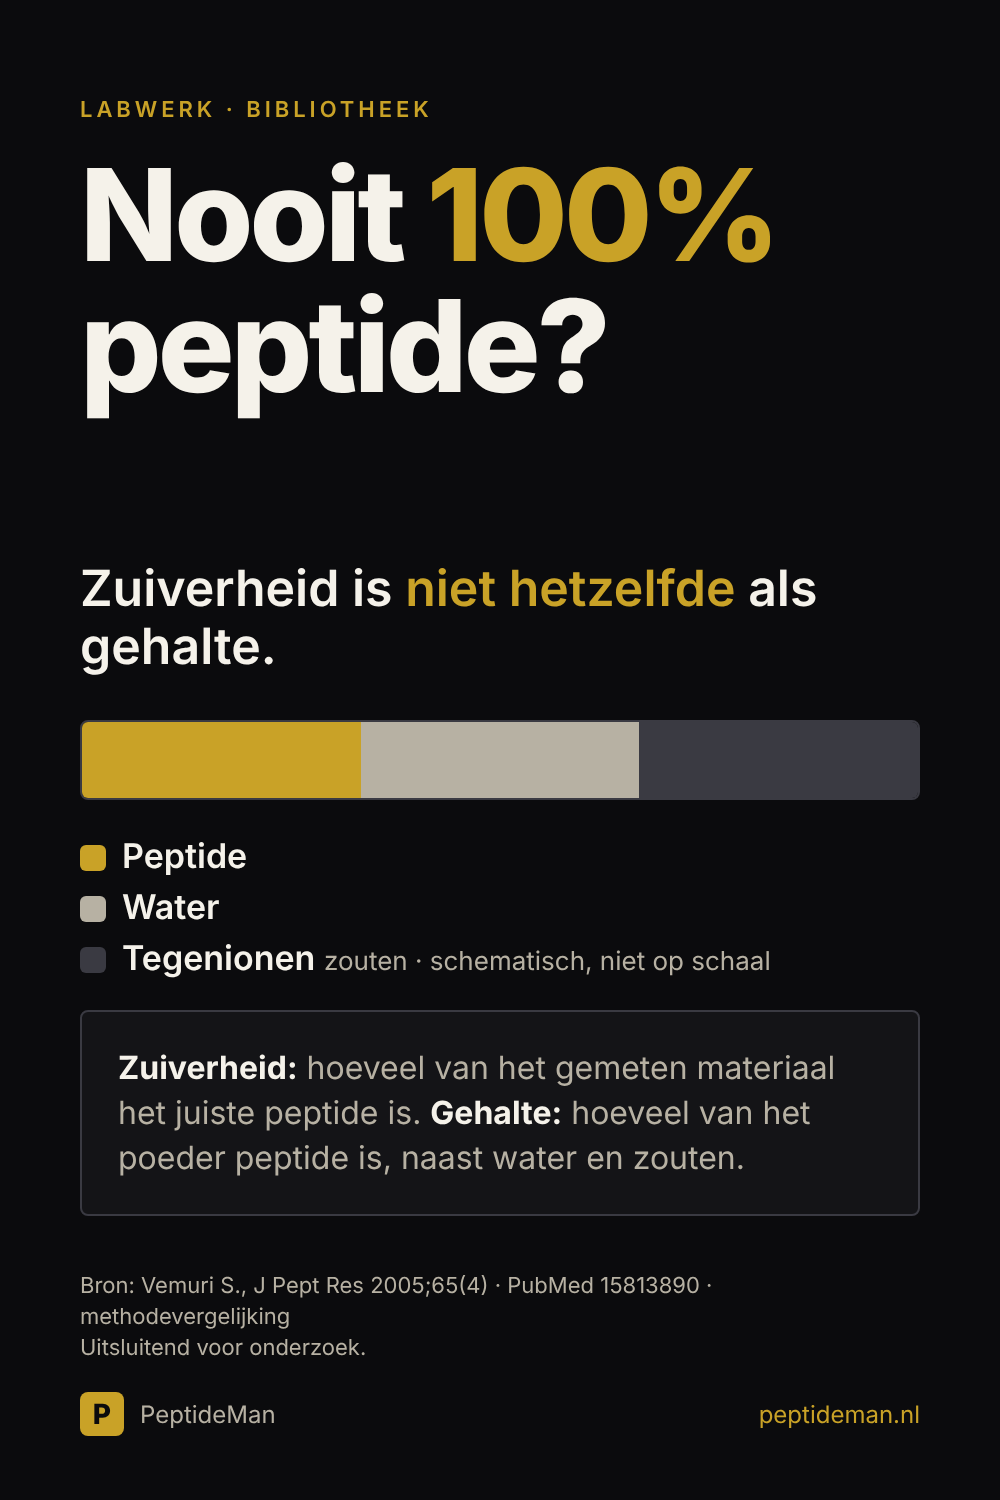
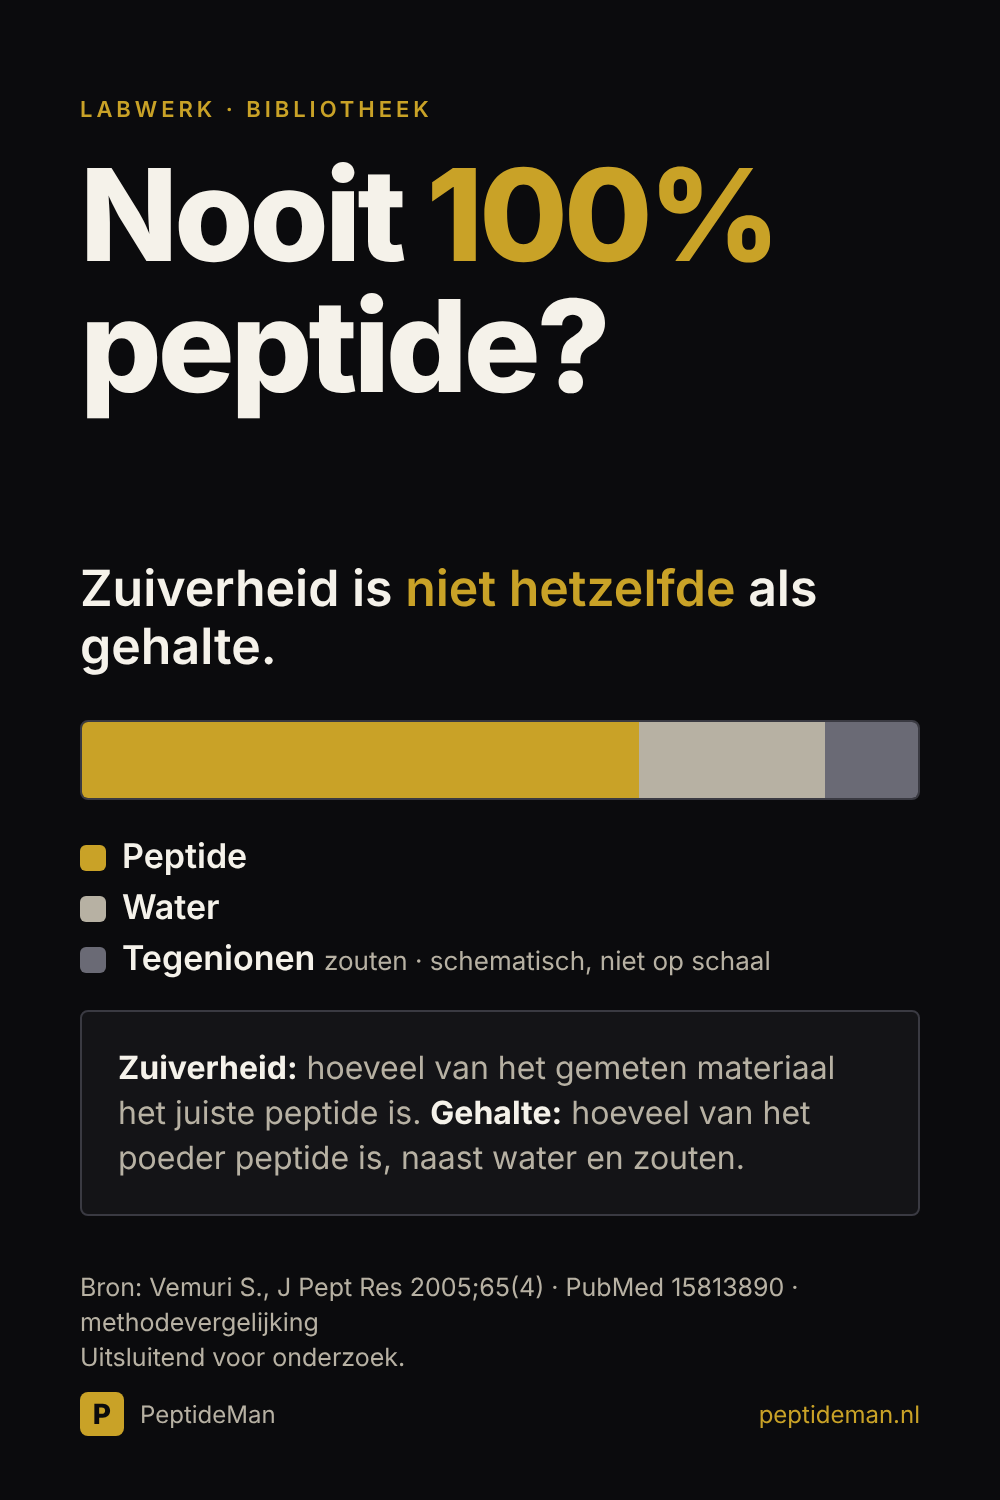
Weekplan w47: zeven posts gecontroleerd, beelden online, concepten in Metricool
Claude-Session: https://claude.ai/code/session_01X3HvVKaHCTRivaEnsPDrHS

Changed region(s): [[0.341, 0.46, 0.93, 0.552], [0.062, 0.828, 0.775, 0.92], [0.062, 0.6133, 0.124, 0.644]]

diff --git a/posts/media/2026-11-19-labwerk-peptidegehalte.html b/posts/media/2026-11-19-labwerk-peptidegehalte.html
@@ -11,15 +11,15 @@ h1 span{color:var(--gold)}
 .lead{position:absolute;top:560px;left:80px;right:80px;font-size:50px;line-height:1.15;color:var(--light);font-weight:600}
 .lead span{color:var(--gold)}
 .bar{position:absolute;top:720px;left:80px;right:80px;height:80px;display:flex;border-radius:8px;overflow:hidden;border:2px solid var(--border)}
-.bar div:nth-child(1){flex:1;background:var(--gold)}
-.bar div:nth-child(2){flex:1;background:var(--text)}
-.bar div:nth-child(3){flex:1;background:var(--border)}
+.bar div:nth-child(1){flex:6;background:var(--gold)}
+.bar div:nth-child(2){flex:2;background:var(--text)}
+.bar div:nth-child(3){flex:1;background:#6a6a75}
 .leg{position:absolute;top:830px;left:80px;right:80px;font-size:34px;line-height:1.5;color:var(--light);font-weight:600}
 .leg i{display:inline-block;width:26px;height:26px;border-radius:6px;margin-right:16px;vertical-align:-3px}
 .leg small{font-size:26px;color:var(--text);font-weight:400}
 .big{position:absolute;top:1010px;left:80px;right:80px;background:var(--surface);border:2px solid var(--border);border-radius:8px;padding:34px 36px;font-size:32px;line-height:1.4}
 .big b{color:var(--light)}
-.src{position:absolute;left:80px;right:80px;top:1270px;font-size:22px;line-height:1.4}
+.src{position:absolute;left:80px;right:80px;top:1270px;font-size:25px;line-height:1.4}
 .foot{position:absolute;left:80px;right:80px;bottom:64px;display:flex;align-items:center;gap:16px;font-size:24px}
 .logo{width:44px;height:44px;border-radius:8px;background:var(--gold);color:var(--bg);font-weight:800;font-size:28px;display:flex;align-items:center;justify-content:center}
 .foot .url{margin-left:auto;color:var(--gold)}
@@ -31,7 +31,7 @@ h1 span{color:var(--gold)}
 <div class="leg">
 <i style="background:var(--gold)"></i>Peptide<br>
 <i style="background:var(--text)"></i>Water<br>
-<i style="background:var(--border)"></i>Tegenionen <small>zouten · schematisch, niet op schaal</small>
+<i style="background:#6a6a75"></i>Tegenionen <small>zouten · schematisch, niet op schaal</small>
 </div>
 <div class="big"><b>Zuiverheid:</b> hoeveel van het gemeten materiaal het juiste peptide is. <b>Gehalte:</b> hoeveel van het poeder peptide is, naast water en zouten.</div>
 <div class="src">Bron: Vemuri S., J Pept Res 2005;65(4) · PubMed 15813890 · methodevergelijking<br>Uitsluitend voor onderzoek.</div>

diff --git a/posts/media/2026-11-22-weetje-aspartaam-dipeptide.html b/posts/media/2026-11-22-weetje-aspartaam-dipeptide.html
@@ -7,18 +7,17 @@ html,body{width:1080px;height:1920px;background:var(--bg)}
 body{font-family:system-ui,-apple-system,"Segoe UI",Roboto,Helvetica,Arial,sans-serif;color:var(--text);position:relative;overflow:hidden}
 .tag{position:absolute;top:130px;left:90px;font-size:34px;letter-spacing:.18em;text-transform:uppercase;color:var(--gold);font-weight:600}
 .pct{position:absolute;top:200px;left:80px;right:80px;font-size:400px;line-height:1;color:var(--gold);font-weight:800;letter-spacing:-.05em}
-h1{position:absolute;top:640px;left:90px;right:90px;font-size:120px;line-height:1.08;color:var(--light);font-weight:800;letter-spacing:-.03em;white-space:nowrap}
+h1{position:absolute;top:330px;left:90px;right:90px;font-size:120px;line-height:1.08;color:var(--light);font-weight:800;letter-spacing:-.03em;white-space:nowrap}
 h1 span{color:var(--gold)}
-.big{position:absolute;top:1190px;left:90px;right:90px;background:var(--surface);border:2px solid var(--border);border-radius:8px;padding:48px 52px;font-size:46px;line-height:1.35}
+.big{position:absolute;top:880px;left:90px;right:90px;background:var(--surface);border:2px solid var(--border);border-radius:8px;padding:48px 52px;font-size:46px;line-height:1.35}
 .big b{color:var(--light)}
-.src{position:absolute;left:90px;right:90px;top:1500px;font-size:28px;line-height:1.4}
+.src{position:absolute;left:90px;right:90px;top:1190px;font-size:30px;line-height:1.4}
 .foot{position:absolute;left:90px;right:90px;bottom:110px;display:flex;align-items:center;gap:20px;font-size:34px}
 .logo{width:64px;height:64px;border-radius:8px;background:var(--gold);color:var(--bg);font-weight:800;font-size:40px;display:flex;align-items:center;justify-content:center}
 .foot .url{margin-left:auto;color:var(--gold)}
-.foot{bottom:190px!important}
+.foot{bottom:260px!important}
 </style></head><body>
 <div class="tag">Weetje · Bibliotheek</div>
-<div class="pct">2</div>
 <h1>Dit zoetmiddel<br>is eigenlijk<br>een <span>peptide</span></h1>
 <div class="big">Aspartaam bestaat uit <b>twee aminozuren</b> aan elkaar: een <b>dipeptide</b>.</div>
 <div class="src">Bron: MacDonald e.a., J Med Chem 1980 · PubMed 7381839<br>Chemisch onderzoek (synthese van analogen).<br>Uitsluitend voor onderzoek.</div>

diff --git a/posts/media/2026-11-17-weetje-peptidebinding.html b/posts/media/2026-11-17-weetje-peptidebinding.html
@@ -16,7 +16,7 @@ h1 span{color:var(--gold)}
 .cap span{color:var(--gold)}
 .big{position:absolute;top:1010px;left:80px;right:80px;background:var(--surface);border:2px solid var(--border);border-radius:8px;padding:34px 36px;font-size:32px;line-height:1.4}
 .big b{color:var(--light)}
-.src{position:absolute;left:80px;right:80px;top:1270px;font-size:22px;line-height:1.4}
+.src{position:absolute;left:80px;right:80px;top:1270px;font-size:25px;line-height:1.4}
 .foot{position:absolute;left:80px;right:80px;bottom:64px;display:flex;align-items:center;gap:16px;font-size:24px}
 .logo{width:44px;height:44px;border-radius:8px;background:var(--gold);color:var(--bg);font-weight:800;font-size:28px;display:flex;align-items:center;justify-content:center}
 .foot .url{margin-left:auto;color:var(--gold)}
@@ -25,7 +25,7 @@ h1 span{color:var(--gold)}
 <h1>Hoe zitten aminozuren aan elkaar <span>vast?</span></h1>
 <div class="row"><div class="aa">aminozuur</div><div class="bond">CO–NH</div><div class="aa">aminozuur</div></div>
 <div class="cap">Dit heet een peptidebinding, <span>met water als bijproduct.</span></div>
-<div class="big">Twee aminozuren maken een verbinding. Daarbij komt een molecuul <b>water</b> vrij.</div>
-<div class="src">Bron: Forbes Kaprive J. &amp; Merheb E., StatPearls 2026 · PubMed 32965931 · naslagwerk<br>Uitsluitend voor onderzoek.</div>
+<div class="big">De verbinding heet <b>CO–NH</b>. Daarbij komt een molecuul <b>water</b> vrij.</div>
+<div class="src">Bron: StatPearls 2026 · PubMed 32965931 · naslagwerk<br>Uitsluitend voor onderzoek.</div>
 <div class="foot"><div class="logo">P</div>PeptideMan<span class="url">peptideman.nl</span></div>
 </body></html>

diff --git a/posts/media/2026-11-21-labwerk-vriesdrogen.html b/posts/media/2026-11-21-labwerk-vriesdrogen.html
@@ -10,15 +10,15 @@ h1{position:absolute;top:260px;left:90px;right:90px;font-size:124px;line-height:
 h1 span{color:var(--gold)}
 .big{position:absolute;top:1010px;left:90px;right:90px;background:var(--surface);border:2px solid var(--border);border-radius:8px;padding:48px 52px;font-size:50px;line-height:1.35}
 .big b{color:var(--light)}
-.src{position:absolute;left:90px;right:90px;top:1400px;font-size:28px;line-height:1.4}
+.src{position:absolute;left:90px;right:90px;top:1440px;font-size:30px;line-height:1.4}
 .foot{position:absolute;left:90px;right:90px;bottom:110px;display:flex;align-items:center;gap:20px;font-size:34px}
 .logo{width:64px;height:64px;border-radius:8px;background:var(--gold);color:var(--bg);font-weight:800;font-size:40px;display:flex;align-items:center;justify-content:center}
 .foot .url{margin-left:auto;color:var(--gold)}
 .foot{bottom:240px!important}
 </style></head><body>
 <div class="tag">Labwerk · Bibliotheek</div>
-<h1>Waarom zit een peptide vaak als <span>wit pluisje</span> in het flesje?</h1>
-<div class="big">Vriesdrogen haalt het water weg: eerst <b>bevriezen</b>, dan <b>drogen</b>.</div>
+<h1>Dit witte pluisje is een peptide <span>zonder water</span></h1>
+<div class="big">Vriesdrogen haalt het water weg: eerst <b>bevriezen</b>, dan <b>drogen</b>. Zo blijft een peptide stabieler dan in water.</div>
 <div class="src">Bron: Izutsu, Adv Exp Med Biol 2018 (overzichtsartikel, geen studie bij mens, dier of cel) · PubMed 30288720<br>Uitsluitend voor onderzoek.</div>
 <div class="foot"><div class="logo">P</div>PeptideMan<span class="url">peptideman.nl</span></div>
 </body></html>

diff --git a/posts/media/2026-11-16-labwerk-chromatogram.html b/posts/media/2026-11-16-labwerk-chromatogram.html
@@ -27,8 +27,8 @@ h1 span{color:var(--gold)}
 <path d="M0 250 L120 250 Q150 250 160 235 Q170 215 180 235 Q190 250 220 250 L330 250 Q380 250 400 150 Q420 20 440 20 Q460 20 480 150 Q500 250 550 250 L640 250 Q665 250 675 225 Q685 205 695 225 Q705 250 730 250 L840 250" fill="none" stroke="#C9A227" stroke-width="5" stroke-linejoin="round"/>
 <line x1="440" y1="20" x2="440" y2="250" stroke="#3A3A42" stroke-width="2" stroke-dasharray="8 8"/>
 </svg></div>
-<div class="lab"><span>retentietijd →</span><span>piek = stof uit de kolom</span></div>
-<div class="cap">Elke piek: <span>een stof uit de kolom.</span></div>
+<div class="lab"><span>retentietijd →</span><span>piek = meestal één stof</span></div>
+<div class="cap">Een piek: <span>meestal één stof.</span></div>
 <div class="big"><b>Retentietijd:</b> het moment waarop de piek verschijnt. <b>Oppervlak:</b> hoe groot het signaal van die stof is.</div>
 <div class="src">Bron: Preston &amp; Phillips, Anal Bioanal Chem 2016 · PubMed 26879647<br>Methodeartikel · Uitsluitend voor onderzoek.</div>
 <div class="foot"><div class="logo">P</div>PeptideMan<span class="url">peptideman.nl</span></div>

diff --git a/posts/media/2026-11-18-mythe-peptide-hormoon.html b/posts/media/2026-11-18-mythe-peptide-hormoon.html
@@ -16,14 +16,14 @@ h1 span{color:var(--gold)}
 .big{position:absolute;top:960px;left:80px;right:80px;background:var(--surface);border:2px solid var(--border);border-radius:8px;padding:32px 36px;font-size:32px;line-height:1.35}
 .big b{color:var(--light)}
 .big p+p{margin-top:16px}
-.src{position:absolute;left:80px;right:80px;top:1280px;font-size:22px;line-height:1.4}
+.src{position:absolute;left:80px;right:80px;top:1280px;font-size:25px;line-height:1.4}
 .foot{position:absolute;left:80px;right:80px;bottom:64px;display:flex;align-items:center;gap:16px;font-size:24px}
 .logo{width:44px;height:44px;border-radius:8px;background:var(--gold);color:var(--bg);font-weight:800;font-size:28px;display:flex;align-items:center;justify-content:center}
 .foot .url{margin-left:auto;color:var(--gold)}
 </style></head><body>
 <div class="tag">Mythe vs Feit · Bibliotheek</div>
 <h1>Elk peptide<br>een hormoon?<br><span>Nee.</span></h1>
-<div class="lab">Peptiden komen ook voor in</div>
+<div class="lab">Peptiden komen voor in</div>
 <div class="grid">
 <div class="chip"><i></i>Hormonen</div>
 <div class="chip"><i></i>Toxines</div>

diff --git a/posts/media/2026-11-20-vraag-cyclisch-peptide.html b/posts/media/2026-11-20-vraag-cyclisch-peptide.html
@@ -33,7 +33,7 @@ h1 span{color:var(--gold)}
 <text x="640" y="318" text-anchor="middle" font-size="30" font-weight="700" fill="#C9A227">ring</text>
 </svg>
 <div class="cap">Een <span>ring</span> van aminozuren.</div>
-<div class="big">Bij een ring zijn <b>begin en eind</b> aan elkaar vastgemaakt.</div>
+<div class="big">Vaak zijn <b>begin en eind</b> aan elkaar vastgemaakt.</div>
 <div class="src">Bron: review, Molecules 2021 · PubMed 34206124<br>Uitsluitend voor onderzoek.</div>
 <div class="foot"><div class="logo">P</div>PeptideMan<span class="url">peptideman.nl</span></div>
 </body></html>

diff --git a/planning/2026-w47.md b/planning/2026-w47.md
@@ -6,13 +6,15 @@ Pinterest-beschrijvingen blijven onder 500 tekens. TikTok: foto met één sterke
 | Dag | Tijd | Kanaal | Pijler | Onderwerp | Hoek (titel / openingszin) | Waarom |
 |---|---|---|---|---|---|---|
 | ma 16 nov | 11:00 | Pinterest | Labwerk | Chromatogram lezen: piek, retentietijd, piekoppervlak | "Hoe lees je een HPLC-chromatogram?" | Labwerk onderscheidt PeptideMan. **Experiment** (analist 2): pin-link naar https://peptideman.nl/kwaliteit in plaats van de homepage; let op: Pinterest-statistiek geeft nog 0 rijen |
-| di 17 nov | 11:00 | Pinterest | Weetje | De peptidebinding: hoe aminozuren aan elkaar zitten | "Hoe zitten aminozuren aan elkaar vast in een peptide?" | Nieuw onderwerp, brede zoekvraag |
+| di 17 nov | 17:00 | Pinterest | Weetje | De peptidebinding: hoe aminozuren aan elkaar zitten | "Wat is een peptidebinding?" | Nieuw onderwerp, brede zoekvraag |
 | wo 18 nov | 11:00 | Pinterest | Mythe vs Feit | Zijn alle peptiden hormonen? | "Is elk peptide een hormoon?" | Basisvraag, educatief; mythe weerleggen met onderzoek naar peptidefuncties in cellen |
-| do 19 nov | 11:00 | Pinterest | Labwerk | Peptidegehalte: waarom een poeder nooit 100% peptide is (water, tegenionen) | "Waarom is een peptide nooit 100% peptide?" | Tweede Labwerk, vult "99%"-post aan met wat een zuiverheidspercentage niet zegt |
+| do 19 nov | 11:00 | Pinterest | Labwerk | Peptidegehalte: waarom een poeder nooit 100% peptide is (water, tegenionen) | "Wat is het verschil tussen peptidegehalte en zuiverheid?" | Tweede Labwerk, vult "99%"-post aan met wat een zuiverheidspercentage niet zegt |
 | vr 20 nov | 11:00 | Pinterest | Vraag van de dag | Wat is een cyclisch peptide? | "Wat is een cyclisch peptide?" | Zoekvraag, structuurfeit, geen gebruiksinfo |
 | za 21 nov | 08:00 | TikTok | Labwerk | Vriesdrogen: waarom peptidepoeder als wit pluisje in de flacon zit | Prikkelende eerste zin: "Dit witte pluisje is een peptide zonder water" | Derde Labwerk; foto met één uitspraak (les: 41.946 weergaven); ochtend zoals de uitschieter van 14 okt |
-| zo 22 nov | 08:00 | TikTok | Weetje | Aspartaam is een dipeptide (twee aminozuren, chemische structuur) | Prikkelende eerste zin: "Dit zoetmiddel is een peptide van 2 aminozuren" | Nieuwe post; structuurfeit, geen gezondheidsclaim |
+| zo 22 nov | 14:30 | TikTok | Weetje | Aspartaam is een dipeptide (twee aminozuren, chemische structuur) | Prikkelende eerste zin: "Dit zoetmiddel is eigenlijk een peptide" | Nieuwe post; structuurfeit, geen gezondheidsclaim |
 
+Let op: op zo 22 nov staat al een TikTok-video om 10:00 (id 420360528); de aspartaam-post gaat daarom om 14:30 (4-uursregel).
+Let op: op di 17 nov staat al een epithalon-concept om 11:00 (vorig plan); de peptidebinding-pin gaat daarom om 17:00.
 Pijlers: Labwerk 3x, Weetje 2x, Mythe vs Feit 1x, Vraag van de dag 1x. Video ontbreekt deze week: video's worden niet autonoom geproduceerd.
 TikTok-tijd: 08:00 volgt de uitschieter (weergaven en reacties meten, deze keer ook shares).
 

diff --git a/posts/2026-11-19-labwerk-peptidegehalte.md b/posts/2026-11-19-labwerk-peptidegehalte.md
@@ -1,13 +1,13 @@
 kanaal: Pinterest
 pijler: Labwerk
-pin-titel: Wat is peptidegehalte en wat is het verschil met zuiverheid?
+pin-titel: Wat is het verschil tussen peptidegehalte en zuiverheid?
 pin-link: https://peptideman.nl
 beeldtekst: Nooit 100% peptide? Zuiverheid is iets anders dan gehalte. Gehalte zegt hoeveel van het poeder peptide is, naast water en zouten (tegenionen).
 
 caption: |
-  Peptidegehalte zegt hoeveel van het poeder echt peptide is. Zuiverheid is iets anders. Naast het peptide zitten er ook water en zouten (tegenionen) in.
+  Peptidegehalte zegt hoeveel van het poeder echt peptide is. Zuiverheid is iets anders. Naast het peptide zitten er meestal ook water en zouten (tegenionen) in.
 
-  Soort bron: methodevergelijking (2005), geen studie bij mensen of dieren.
+  Soort bron: methodevergelijking (2005) over hoe je peptidegehalte meet, geen studie bij mensen of dieren.
 
   Uitsluitend voor onderzoek.
 
@@ -18,5 +18,6 @@ bron: https://pubmed.ncbi.nlm.nih.gov/15813890/ (Vemuri S. J Pept Res 2005;65(4)
 soort-bron: methodevergelijking (analytische chemie, gevriesdroogd peptidepreparaat), geen studie bij mens, dier of cel. De abstract vergelijkt vier methoden voor peptidegehalte (elementanalyse CHN, aminozuuranalyse, HPLC, Kjeldahl) en meldt dat de precisie afhangt van peptide, methode en laboratorium. Water en tegenionen staan niet in de abstract; dat is algemene achtergrond.
 
 beeld: posts/media/2026-11-19-labwerk-peptidegehalte.png
-beeld-url: open
-claimcheck: open
+beeld-url: https://peptideman-media-hspj.netlify.app/social/2026-11-19-labwerk-peptidegehalte.png
+claimcheck: GOED
+ingepland: 2026-11-19 11:00 (concept)

diff --git a/posts/2026-11-21-labwerk-vriesdrogen.md b/posts/2026-11-21-labwerk-vriesdrogen.md
@@ -1,11 +1,11 @@
 kanaal: TikTok
 pijler: Labwerk
-titel: Waarom een peptide vaak als wit pluisje in het flesje zit
-eerste-beeld: Waarom zit een peptide vaak als wit pluisje in het flesje?
-beeldtekst: Waarom zit een peptide vaak als wit pluisje in het flesje? Vriesdrogen haalt het water weg: eerst bevriezen, dan drogen.
+titel: Waarom peptidepoeder een wit pluisje is
+eerste-beeld: Dit witte pluisje is een peptide zonder water
+beeldtekst: Dit witte pluisje is een peptide zonder water. Vriesdrogen haalt het water weg: eerst bevriezen, dan drogen. Zo blijft een peptide stabieler dan in water.
 
 caption: |
-  Waarom zit peptidepoeder vaak als wit pluisje in het flesje? Vriesdrogen houdt peptiden stabieler. Link in bio. Uitsluitend voor onderzoek.
+  Dit witte pluisje is een peptide zonder water. Vriesdrogen houdt peptiden stabieler. Link in bio. Uitsluitend voor onderzoek.
 
 
 hashtags: #labwerk #vriesdrogen #peptiden #peptideonderzoek
@@ -14,5 +14,6 @@ bron: https://pubmed.ncbi.nlm.nih.gov/30288720/ (Izutsu KI. Adv Exp Med Biol 201
 soort-bron: overzichtsartikel (farmaceutische technologie, formulering van eiwitten en peptiden), geen studie bij mens, dier of cel. De abstract beschrijft dat vriesdrogen (bevriezen, primair en secundair drogen) de opslagstabiliteit verbetert van eiwitten, peptiden en andere stoffen die in waterige oplossing maar matig stabiel zijn.
 
 beeld: posts/media/2026-11-21-labwerk-vriesdrogen.png
-beeld-url: open
-claimcheck: open
+beeld-url: https://peptideman-media-hspj.netlify.app/social/2026-11-21-labwerk-vriesdrogen.png
+claimcheck: GOED
+ingepland: 2026-11-21 08:00 (concept)

diff --git a/posts/2026-11-22-weetje-aspartaam-dipeptide.md b/posts/2026-11-22-weetje-aspartaam-dipeptide.md
@@ -2,10 +2,10 @@ kanaal: TikTok
 pijler: Weetje
 titel: Een zoetmiddel dat eigenlijk een peptide is
 eerste-beeld: Dit zoetmiddel is eigenlijk een peptide
-beeldtekst: 2. Dit zoetmiddel is eigenlijk een peptide. Aspartaam bestaat uit twee aminozuren aan elkaar: een dipeptide.
+beeldtekst: Dit zoetmiddel is eigenlijk een peptide. Aspartaam bestaat uit twee aminozuren aan elkaar: een dipeptide.
 
 caption: |
-  Aspartaam bestaat uit twee aminozuren aan elkaar. Dat is een dipeptide. Bron: PubMed 7381839. Uitsluitend voor onderzoek.
+  Aspartaam: twee aminozuren aan elkaar (aspartaat en fenylalanine), met een methylgroep. Een dipeptide. PubMed 7381839. Uitsluitend voor onderzoek.
 
 
 hashtags: #zoetmiddel #scheikunde #wistjedat #peptideonderzoek
@@ -14,5 +14,6 @@ bron: https://pubmed.ncbi.nlm.nih.gov/7381839/ ("Peptide sweeteners. 3. Effect o
 soort-bron: chemisch onderzoek (synthese van analogen, structuur-activiteit), geen dier- of celstudie. Alleen het structuurfeit uit de abstract is gebruikt: de abstract noemt aspartaam "the dipeptide sweetener L-aspartyl-L-phenylalanine methyl ester", dus twee aminozuren (aspartaat en fenylalanine) met een methylester. Geen smaak-, veiligheids-, gezondheids- of consumptieclaims overgenomen.
 
 beeld: posts/media/2026-11-22-weetje-aspartaam-dipeptide.png
-beeld-url: open
-claimcheck: open
+beeld-url: https://peptideman-media-hspj.netlify.app/social/2026-11-22-weetje-aspartaam-dipeptide.png
+claimcheck: GOED
+ingepland: 2026-11-22 14:30 (concept)

diff --git a/posts/2026-11-16-labwerk-chromatogram.md b/posts/2026-11-16-labwerk-chromatogram.md
@@ -7,7 +7,7 @@ beeldtekst: Hoe lees je een HPLC-chromatogram? Waar de piek staat is de retentie
 caption: |
   Hoe lees je een HPLC-chromatogram? De plek van een piek (retentietijd) laat zien wanneer een stof uit de kolom komt. Het oppervlak onder de piek is een maat voor het signaal van die stof.
 
-  Soort bron: methodeartikel (2016), geen studie bij mensen of dieren.
+  Soort bron: methodeartikel, Anal Bioanal Chem 2016 (PubMed 26879647), geen studie bij mensen of dieren.
 
   Uitsluitend voor onderzoek.
 
@@ -17,6 +17,7 @@ hashtags: #HPLC #chromatogram #peptideonderzoek #labwerk #PeptideMan
 bron: https://pubmed.ncbi.nlm.nih.gov/26879647/ (PMID 26879647; Preston GW, Phillips DH. Anal Bioanal Chem 2016;408(9). "Quantification of a peptide standard using the intrinsic fluorescence of tyrosine")
 
 beeld: posts/media/2026-11-16-labwerk-chromatogram.png
-beeld-url: open
-claimcheck: open
+beeld-url: https://peptideman-media-hspj.netlify.app/social/2026-11-16-labwerk-chromatogram.png
+claimcheck: GOED
 soort-bron: methodeartikel (analytische chemie, synthetisch standaardpeptide), geen studie bij mens of dier. De abstract beschrijft dat piekoppervlakken uit een HPLC-UV-chromatogram worden gebruikt om een zuiverheidspercentage te schatten. De uitleg over retentietijd is algemene methodekennis en staat als zodanig (zonder studiezin) in de caption.
+ingepland: 2026-11-16 11:00 (concept)
